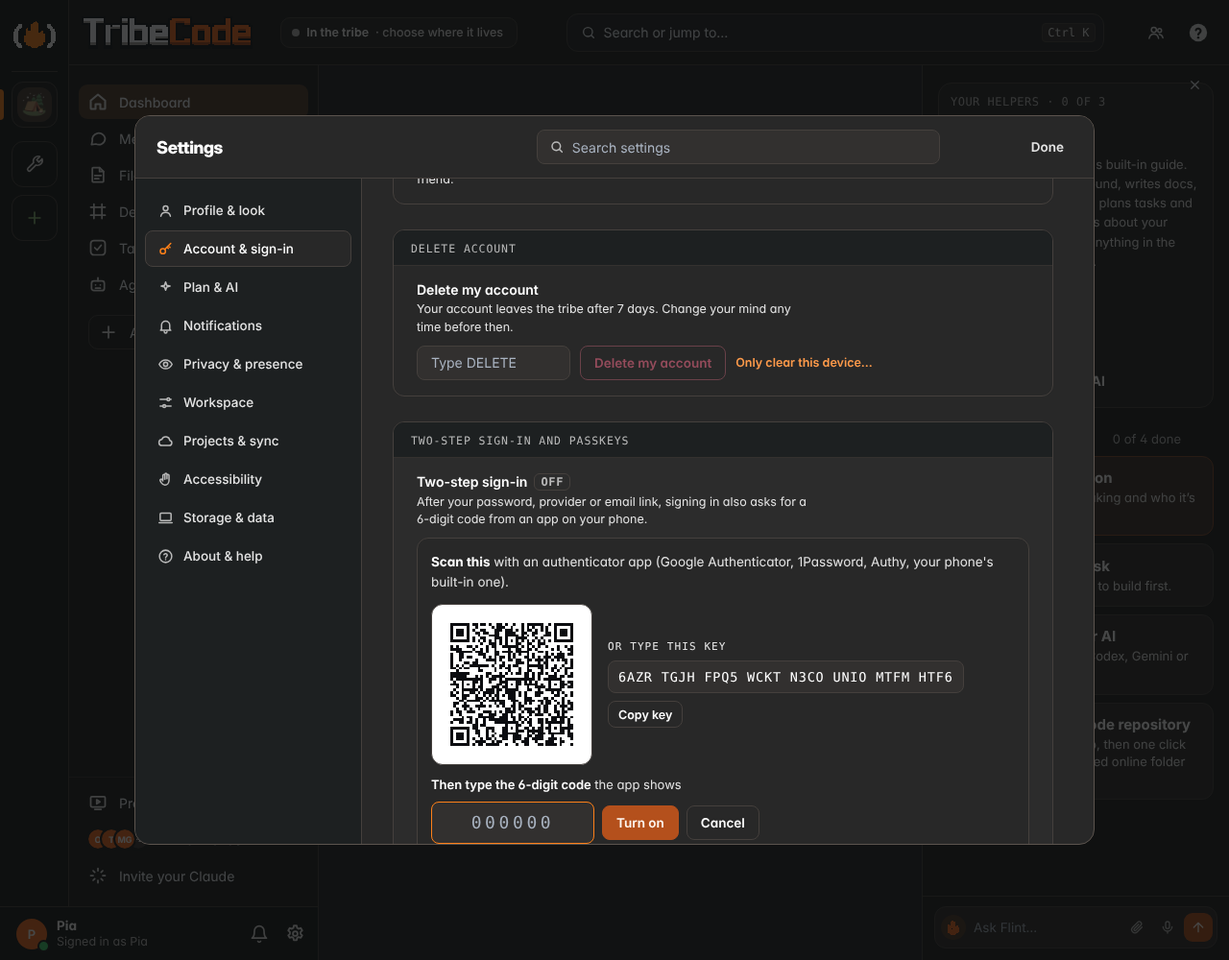
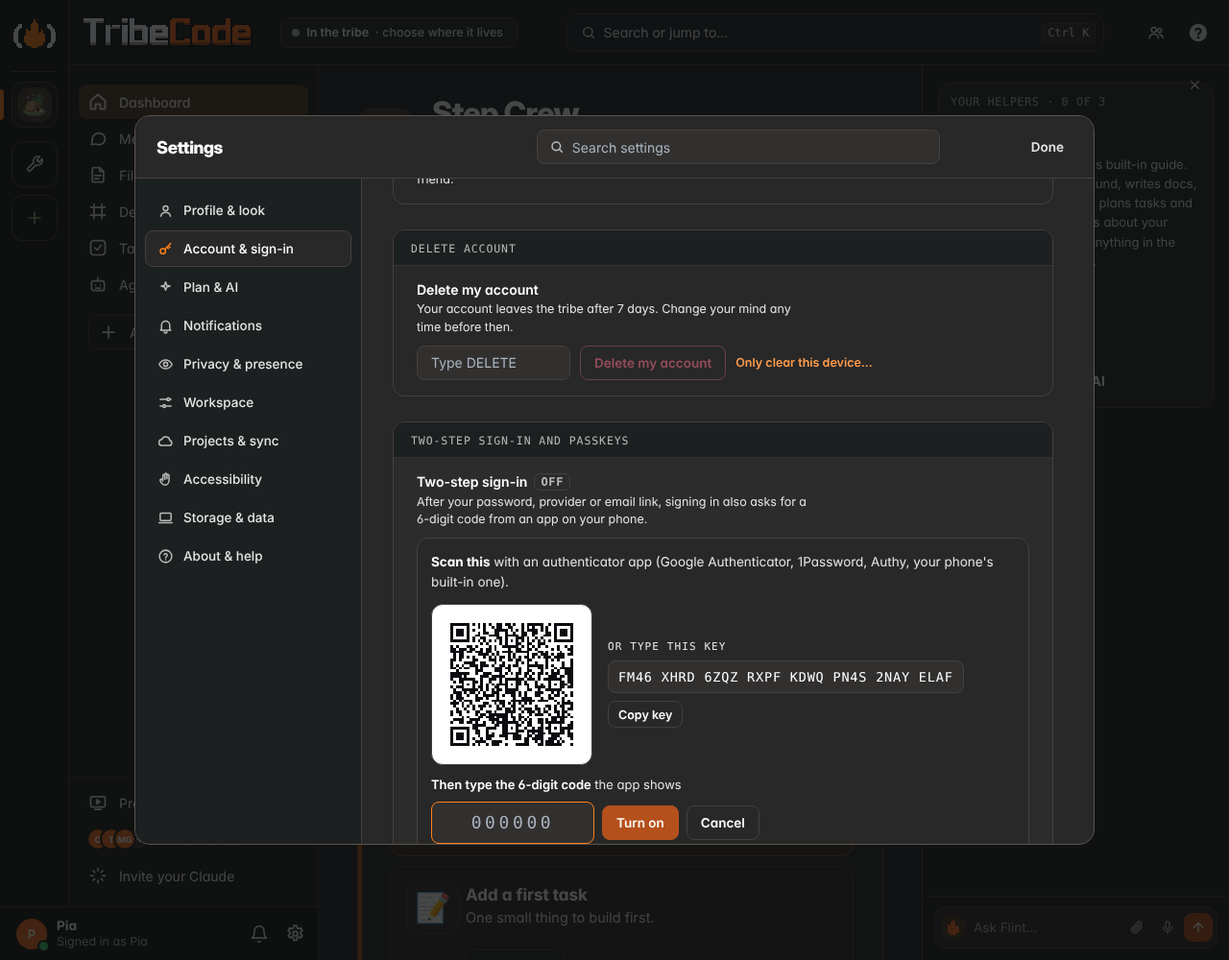
Two-step sign-in off by default: TRIBE_TWO_STEP=1 or the host's setting turns it on
Off: no gate at sign-in (enrolled or not), no rule for admins, the two-step routes answer 404, Settings shows passkeys
only; enrolments are kept. Tests run with the flags on and check the defaults.

Claude-Session: https://claude.ai/code/session_01Twew38tmNVdwNycXqatzin

diff --git a/server/accounts.js b/server/accounts.js
@@ -92,7 +92,7 @@ module.exports = function makeAccounts({ store, getMembers, isLocal, limited, ha
   const taken = () => new Set(load().accounts.map(a => a.usernameKey));
   const pub = a => a && ({ id: a.id, username: a.username, displayName: a.displayName, created: a.created, status: a.status,
     providers: (a.providers || []).map(p => ({ provider: p.provider, linked: p.linked })), members: (a.members || []).slice(), hasPassword: !!a.password,
-    email: a.email ? { address: a.email.address, verified: !!a.email.verified } : null, twoStep: a3.totpOn(a.id), passkeys: a3.passkeyCount(a.id) });
+    email: a.email ? { address: a.email.address, verified: !!a.email.verified } : null, twoStep: twoStepOn() && a3.totpOn(a.id), passkeys: a3.passkeyCount(a.id) });
   const byKey = k => load().accounts.find(a => a.usernameKey === k);
 
   // Existing tribe members -> accounts (once per member; idempotent). Agents are not people and get none.
@@ -225,7 +225,11 @@ module.exports = function makeAccounts({ store, getMembers, isLocal, limited, ha
   // feat/auth3: with two-step on, every sign-in stops at the gate first ({ need: 'two-step', ticket }); server/auth3.js
   // finishes it (signedInNow, strong) once the code, recovery code, trusted device or passkey checks out.
   const adminAccount = a => { const ids = new Set(a.members || []); return getMembers().some(x => ids.has(x.id) && (x.role === 'host' || x.role === 'admin')); };
-  const twoStepAdmins = () => !!readAuth().twoStepAdmins;
+  // Two-step sign-in is OFF until the host turns it on: TRIBE_TWO_STEP=1, or { twoStep: true } in the host's sign-in settings
+  // (PUT admin/settings on the host computer). Off: no gate, no rule for admins, the two-step routes answer 404; an
+  // enrolment made earlier is kept and counts again when it comes back on. Passkeys are a sign-in method either way.
+  const twoStepOn = () => process.env.TRIBE_TWO_STEP === '1' || readAuth().twoStep === true;
+  const twoStepAdmins = () => twoStepOn() && !!readAuth().twoStepAdmins;
   function signedInNow(a, req, proven, { strong = false, memberOnly = false } = {}) {
     const live = new Set(getMembers().filter(x => x.role !== 'agent').map(x => x.id)), mid = (a.members || []).find(x => live.has(x));
     // the host can require two-step for admins: without it the account signs in, but the tribe key waits until it is on
@@ -237,7 +241,7 @@ module.exports = function makeAccounts({ store, getMembers, isLocal, limited, ha
   }
   function signedIn(a, req, proven) { return a3.gate(a) || signedInNow(a, req, proven); }
   const a3 = require('./auth3')({ store, hash, id, limited, log, issueWith, redeemTok, pendSave: () => pend.save(), fromToken, accountById: x => load().accounts.find(a => a.id === x) || null,
-    usableCount: a => usableCount(a), finish: (a, req, o) => signedInNow(a, req, true, o), memberFinish: (mid, req) => (signInMember ? signInMember(mid, req) : null), isAdmin: adminAccount, required: twoStepAdmins });
+    enabled: twoStepOn, usableCount: a => usableCount(a), finish: (a, req, o) => signedInNow(a, req, true, o), memberFinish: (mid, req) => (signInMember ? signInMember(mid, req) : null), isAdmin: adminAccount, required: twoStepAdmins });
   // server/oauth.js: a provider signs a member of this tribe back in. Two-step on their account -> the same gate.
   function memberGate(member, req, info = {}) {
     if (!enabled() || !member) return null;
@@ -313,14 +317,15 @@ module.exports = function makeAccounts({ store, getMembers, isLocal, limited, ha
 
   async function auth2(req, res, { b, c, m, body, send, fail, tooMany }) {
     // public: what this TribeCode offers (the sign-up sheet, signin.html and the pop-up read it)
-    if (b === 'config' && m === 'GET') { send(res, 200, { on: true, openSignup: openSignup(), email: emailOn() }); return true; }
+    if (b === 'config' && m === 'GET') { send(res, 200, { on: true, openSignup: openSignup(), email: emailOn(), ...(twoStepOn() ? { twoStep: true } : {}) }); return true; }
     // ---- the host's settings: on the host computer only ----
     if (b === 'admin') {
       if (!isHostAdmin(req)) { fail(res, 403, 'only the host changes sign-in settings, on the host computer'); return true; }
-      if (c === 'settings' && m === 'GET') { send(res, 200, { openSignup: openSignup(), smtp: viewSmtp(), twoStepAdmins: twoStepAdmins() }); return true; }
+      if (c === 'settings' && m === 'GET') { send(res, 200, { openSignup: openSignup(), smtp: viewSmtp(), twoStep: twoStepOn(), twoStepAdmins: twoStepAdmins() }); return true; }
       if (c === 'settings' && m === 'PUT') {
         const all = readAuth();
         if (body.openSignup !== undefined) all.openSignup = !!body.openSignup;
+        if (body.twoStep !== undefined) { all.twoStep = !!body.twoStep; log(`accounts: two-step sign-in ${all.twoStep ? 'on' : 'off'}`); }
         if (body.twoStepAdmins !== undefined) { all.twoStepAdmins = !!body.twoStepAdmins; log(`accounts: two-step for admins ${all.twoStepAdmins ? 'required' : 'not required'}`); }   // feat/auth3
         if (body.smtp !== undefined) {
           if (body.smtp === null || body.smtp.host === '') delete all.smtp;
@@ -334,7 +339,7 @@ module.exports = function makeAccounts({ store, getMembers, isLocal, limited, ha
           }
         }
         writeAuth(all); log(`accounts: sign-in settings changed (open sign-up ${openSignup() ? 'on' : 'off'}, email ${emailOn() ? 'on' : 'off'})`);
-        send(res, 200, { openSignup: openSignup(), smtp: viewSmtp(), twoStepAdmins: twoStepAdmins() }); return true;
+        send(res, 200, { openSignup: openSignup(), smtp: viewSmtp(), twoStep: twoStepOn(), twoStepAdmins: twoStepAdmins() }); return true;
       }
       if (c === 'smtp-test' && m === 'POST') {
         const cfg = smtpConf(); if (!cfg) { fail(res, 400, 'save the SMTP settings first'); return true; }
@@ -444,7 +449,7 @@ module.exports = function makeAccounts({ store, getMembers, isLocal, limited, ha
         const own = load().accounts.find(a => (a.members || []).includes(mem.id));
         const clash = byKey(keyOf(username));
         if (clash && clash !== own) { fail(res, 409, 'that username is taken'); return true; }
-        if (own && (own.password || a3.totpOn(own.id))) { fail(res, 409, 'you already have an account: log in with it'); return true; }   // feat/auth3: a tribe key alone never steps around two-step
+        if (own && (own.password || (twoStepOn() && a3.totpOn(own.id)))) { fail(res, 409, 'you already have an account: log in with it'); return true; }   // feat/auth3: a tribe key alone never steps around two-step
         if (body.password == null) { fail(res, 400, 'pick a password of at least 8 characters'); return true; }   // fix/review-4
         const a = own || { id: 'acct-' + id(10), created: now(), providers: [], sessions: [], members: [mem.id] };
         Object.assign(a, { username, usernameKey: keyOf(username), displayName: normalizeUsername(body.displayName) || a.displayName || username, status: 'active', ...mail, ...(body.password != null ? { password: scryptHash(body.password) } : {}) });

diff --git a/app/ui/auth3.js b/app/ui/auth3.js
@@ -206,18 +206,22 @@
   const when = t => { try { return new Date(t).toLocaleDateString(undefined, { year: 'numeric', month: 'short', day: 'numeric' }); } catch { return ''; } };
   async function settings(el) {
     const a = acct(), base = baseUrl();
-    if (!a) { el.innerHTML = '<p class="set-note a3-setnote" id="a3-noacct">Two-step sign-in and passkeys protect a TribeCode account. Log in to one, or create one, and they appear here.</p>'; return; }
+    // two-step is off for the whole TribeCode until the host turns it on (config.twoStep): then only passkeys show here
+    let cfg = {}; try { cfg = await call(base, '/accounts/config'); } catch {}
+    const two = cfg.twoStep === true, h3 = el.closest('.set-sec') && el.closest('.set-sec').querySelector('.set-sec-h');
+    if (h3) h3.textContent = two ? 'Two-step sign-in and passkeys' : 'Passkeys';
+    if (!a) { el.innerHTML = `<p class="set-note a3-setnote" id="a3-noacct">${two ? 'Two-step sign-in and passkeys protect' : 'Passkeys sign you in to'} a TribeCode account. Log in to one, or create one, and they appear here.</p>`; return; }
     let st, keys;
-    try { [st, keys] = await Promise.all([call(base, '/accounts/two-step', { token: a.acct }), call(base, '/accounts/passkeys', { token: a.acct })]); }
+    try { [st, keys] = await Promise.all([two ? call(base, '/accounts/two-step', { token: a.acct }) : Promise.resolve(null), call(base, '/accounts/passkeys', { token: a.acct })]); }
     catch (e) { el.innerHTML = e.status === 404 ? '' : `<p class="set-note a3-setnote">${esc(say(e.message))}</p>`; return; }
     if (!el.isConnected) return;
     const av = available(), list = keys.passkeys || [];
-    el.innerHTML = `<div class="set-row set-row-wide" id="set-twostep" data-keys="2fa two-factor totp authenticator code otp mfa two-step">
+    el.innerHTML = `${!st ? '' : `<div class="set-row set-row-wide" id="set-twostep" data-keys="2fa two-factor totp authenticator code otp mfa two-step">
         <div class="set-l"><b>Two-step sign-in <span class="oa-st ${st.on ? 'on' : ''}" id="a3-state">${st.on ? 'On' : 'Off'}</span></b><small>${st.on ? `On since ${esc(when(st.since))}. Signing in asks for a code from your authenticator app. ${st.recoveryLeft} recovery code${st.recoveryLeft === 1 ? '' : 's'} left${st.trusted ? `, ${st.trusted} trusted device${st.trusted === 1 ? '' : 's'}` : ''}.` : 'After your password, provider or email link, signing in also asks for a 6-digit code from an app on your phone.'}${st.required ? ' <b class="a3-req">The host requires it for admins.</b>' : ''}</small></div>
         <div class="set-c a3-acts" id="a3-acts">${st.on ? `<button class="btn" data-a3="new-recs">New recovery codes</button>${st.trusted ? '<button class="btn" data-a3="untrust">Forget trusted devices</button>' : ''}<button class="btn" data-a3="off" id="a3-off">Turn off</button>` : '<button class="btn primary" data-a3="on" id="a3-on">Turn on two-step sign-in</button>'}</div>
-        <div class="a3-panel" id="a3-panel" hidden></div></div>
+        <div class="a3-panel" id="a3-panel" hidden></div></div>`}
       <div class="set-row set-row-wide" id="set-passkeys" data-keys="passkey webauthn fido security key biometric face id touch id fingerprint">
-        <div class="set-l"><b>Passkeys</b><small>Sign in with your fingerprint, face or screen lock instead of a password. A passkey sign-in counts as two-step.</small></div>
+        <div class="set-l"><b>Passkeys</b><small>Sign in with your fingerprint, face or screen lock instead of a password.${st ? ' A passkey sign-in counts as two-step.' : ''}</small></div>
         <div class="set-c a3-pkc">${list.length ? `<ul class="a3-pklist" id="a3-pklist">${list.map(k => `<li data-pk="${esc(k.id)}"><span class="a3-pkname">${KEY_SVG}<span><b>${esc(k.name)}</b><small>Added ${esc(when(k.created))}${k.lastUsed ? ' · last used ' + esc(when(k.lastUsed)) : ''} · ${esc(k.where)}${k.synced ? ' · synced' : ''}</small></span></span><span class="a3-pkbtns"><button class="btn sm" data-pk-rename="${esc(k.id)}">Rename</button><button class="btn sm" data-pk-del="${esc(k.id)}">Remove</button></span></li>`).join('')}</ul>` : ''}
           ${av.ok ? `<button class="btn" id="a3-add-pk" ${list.length >= keys.max ? 'disabled' : ''}>${KEY_SVG}<span>Add a passkey</span></button>` : `<p class="a3-note" id="a3-pk-off">${esc(av.why)}</p>`}<p class="a3-err" id="a3-pk-msg" role="alert"></p></div></div>`;
     const panel = el.querySelector('#a3-panel'), redraw = () => settings(el);
@@ -269,6 +273,7 @@
     if (!(me && me.role === 'host' && local && C().hasToken())) { el.closest('.set-sec') && (el.closest('.set-sec').hidden = true); return; }
     const base = baseUrl(), tok = (S().get().server || {}).token || '';
     let d; try { d = await call(base, '/accounts/admin/settings', { token: tok }); } catch { el.closest('.set-sec') && (el.closest('.set-sec').hidden = true); return; }
+    if (!d.twoStep) { el.innerHTML = ''; if (el.closest('.set-sec')) el.closest('.set-sec').hidden = true; return; }   // two-step is off: no rule to show
     if (!el.isConnected) return;
     el.innerHTML = `<div class="set-row" id="set-twostep-admins" data-keys="2fa two-factor admins require mfa"><div class="set-l"><b>Require two-step for admins</b><small>${d.twoStepAdmins ? 'On: an admin who signs in to their account gets into the tribe only with two-step sign-in (or a passkey). Until they turn it on, they are asked to.' : 'Admins can sign in with a password, a provider or an email link alone. Turn this on to ask every admin for two-step sign-in.'} Sign-ins on this computer are not held back.</small></div>
       <div class="set-c"><button class="toggle set-toggle" role="switch" id="a3-admins" aria-label="Require two-step for admins" aria-checked="${!!d.twoStepAdmins}"><span class="switch"></span></button></div></div>`;
@@ -278,7 +283,7 @@
   function boot() {
     const T = window.TribeSettings; if (!T || !T.addSection) return;
     try {
-      T.addSection('account', { id: 'twostep', title: 'Two-step sign-in and passkeys', render: el => settings(el) });
+      T.addSection('account', { id: 'twostep', title: 'Passkeys', render: el => settings(el) });   // the title grows to "Two-step sign-in and passkeys" when the host has two-step on
       T.addSection('admin', { id: 'twostep-admins', title: 'Sign-in rules', render: el => adminSettings(el) });
     } catch {}
   }

diff --git a/server/auth3.js b/server/auth3.js
@@ -17,6 +17,10 @@
 //   presence, the signature (ES256 or RS256) and the signature counter (it must go up when the authenticator counts).
 //   A passkey sign-in counts as two-step.
 //
+// The switch: two-step is OFF until the host turns it on (TRIBE_TWO_STEP=1 or the host's sign-in settings, see
+// server/accounts.js twoStepOn). Off: gate() never challenges, every two-step route answers 404, enrolments are kept.
+// Passkeys work either way, as a sign-in method.
+//
 // At rest: .tribe/auth3.json (0600, written atomically). TOTP secrets are sealed (server/sealbox.js: AES-256-GCM, the
 // key in .tribe/secret.key, 0600); recovery codes and trust tokens are kept only as sha256; passkeys are public keys.
 //
@@ -98,7 +102,7 @@ function parseAuthData(ad, wantCred) {
   return out;
 }
 
-module.exports = function makeAuth3({ store, hash, id, limited, log = () => {}, issueWith, redeemTok, pendSave, fromToken, accountById, usableCount, finish, memberFinish, isAdmin, required, forgetOnDelete = () => [] }) {
+module.exports = function makeAuth3({ store, hash, id, limited, log = () => {}, enabled = () => true, issueWith, redeemTok, pendSave, fromToken, accountById, usableCount, finish, memberFinish, isAdmin, required, forgetOnDelete = () => [] }) {
   const box = sealbox(store);
   let db = null;
   const load = () => { if (!db) { db = store.readJSON(FILE, null) || { v: 1, accounts: {} }; if (!db.accounts || typeof db.accounts !== 'object') db.accounts = {}; } return db; };
@@ -165,7 +169,7 @@ module.exports = function makeAuth3({ store, hash, id, limited, log = () => {}, 
 
   // The gate (server/accounts.js calls it before every proven sign-in): null = go on, else the challenge to answer.
   function gate(a, extra = {}) {
-    if (!a || !totpOn(a.id)) return null;
+    if (!enabled() || !a || !totpOn(a.id)) return null;   // off for the whole TribeCode: nobody is gated, enrolments wait
     const t = crypto.randomBytes(30).toString('base64url');
     issueWith(t, 'twostep', TICKET_MS, { account: a.id, tries: 0, ...extra });
     const r = peek(a.id);
@@ -247,6 +251,7 @@ module.exports = function makeAuth3({ store, hash, id, limited, log = () => {}, 
     const no = (status, error, code, more = {}) => { send(res, status, { error, ...(code ? { code } : {}), ...more }); return true; };
     const many = () => { res.setHeader('Retry-After', '60'); return no(429, 'too many tries in a row: wait a minute, then try again'); };
     if (limited(req, 90, 60_000, 'a3')) return many();
+    if (!enabled() && (b === 'two-step' || body.ticket != null)) return no(404, 'two-step sign-in is not available on this TribeCode', 'off');
     const isPublic = (b === 'two-step' && !c && m === 'POST') || b === 'passkey';
     if (isPublic && limited(req, 20, 60_000, 'a3try')) return many();
     const who = isPublic ? null : fromToken(req);

diff --git a/app/test/e2e_auth3.py b/app/test/e2e_auth3.py
@@ -1,6 +1,6 @@
 """End-to-end: feat/auth3, two-step sign-in (TOTP) and passkeys (docs/ACCOUNTS.md, docs/SIGNUP-FLOWS.md).
 
-The server runs with TRIBE_ACCOUNTS=1 and a 2-second TOTP step (TRIBE_TEST_TOTP_STEP_MS), so a fresh code is never far
+The server runs with TRIBE_ACCOUNTS=1, TRIBE_TWO_STEP=1 (two-step is off by default) and a 2-second TOTP step (TRIBE_TEST_TOTP_STEP_MS), so a fresh code is never far
 away. The fake provider and SMTP server come from e2e_auth2. Passkeys use Chrome's virtual authenticator over CDP
 (WebAuthn.enable / addVirtualAuthenticator).
 
@@ -15,6 +15,8 @@ Checks
   Passkeys  register in Settings, sign in from signin.html and from the Log in sheet, as the second step; a wrong
          challenge, a challenge issued for another origin, a replayed answer and a counter that went backwards are
          refused; rename, remove, the last sign-in method is protected; the plain line where passkeys can't work.
+  Off    the default, with no TRIBE_TWO_STEP: nobody is gated (enrolled or not), the two-step routes answer 404, Settings
+         shows passkeys only, the enrolment is kept; the host's setting turns it back on.
   UI     Settings › Account & sign-in: turn on (QR, key, code), recovery codes (copy, download), the code sheet with
          "Trust this device", turn off with a code. Screenshots: docs/screenshots/two-step.png, passkey.png.
 Usage: python app/test/e2e_auth3.py   (TRIBE_PORT_OFFSET to run beside other suites)
@@ -107,16 +109,18 @@ def main():
     socketserver.ThreadingTCPServer.allow_reuse_address = True
     smtp = socketserver.ThreadingTCPServer(("127.0.0.1", SMTP_PORT), a2.Smtp); threading.Thread(target=smtp.serve_forever, daemon=True).start()
     env = {**os.environ, "HOME": home, "USERPROFILE": home, "TRIBE_TEST": "1", "TRIBE_NO_DOWNLOAD": "1", "TRIBE_NO_GH": "1", "TRIBE_ACCOUNTS": "1",
-           "TRIBE_TEST_TOTP_STEP_MS": str(STEP * 1000), "TRIBE_OAUTH_DISCORD_BASE": a2.MOCK, "TRIBE_OAUTH_GITHUB_BASE": a2.MOCK, "NO_PROXY": "localhost,127.0.0.1", "no_proxy": "localhost,127.0.0.1"}
+           "TRIBE_TWO_STEP": "1", "TRIBE_TEST_TOTP_STEP_MS": str(STEP * 1000), "TRIBE_OAUTH_DISCORD_BASE": a2.MOCK, "TRIBE_OAUTH_GITHUB_BASE": a2.MOCK, "NO_PROXY": "localhost,127.0.0.1", "no_proxy": "localhost,127.0.0.1"}
     for k in ("TRIBE_PUBLIC_URL", "TRIBE_OPEN_SIGNUP"): env.pop(k, None)
     log = open(os.path.join(tmp, "server.log"), "w+")
-    srv = subprocess.Popen(["node", str(ROOT / "server" / "index.js"), "--port", str(PORT), "--dir", tribe, "--ollama", "http://localhost:9", "--name", "Step Crew"], stdout=log, stderr=subprocess.STDOUT, env=env)
-    try:
+    def wait_up():
         for _ in range(150):
             try:
-                if api("/health")[0] == 200: break
+                if api("/health")[0] == 200: return
             except Exception: pass
             time.sleep(0.1)
+    srv = subprocess.Popen(["node", str(ROOT / "server" / "index.js"), "--port", str(PORT), "--dir", tribe, "--ollama", "http://localhost:9", "--name", "Step Crew"], stdout=log, stderr=subprocess.STDOUT, env=env)
+    try:
+        wait_up()
         host = ok(api("/bootstrap", "POST", {"name": "Orion"}), "bootstrap")["token"]
         for p in ("discord", "github"): ok(api(f"/oauth/config/{p}", "PUT", {"clientId": a2.CLIENT_ID, "clientSecret": a2.SECRET, "enabled": True}, token=host), p)
         ok(api("/accounts/admin/settings", "PUT", {"smtp": {"host": "127.0.0.1", "port": SMTP_PORT, "secure": "none", "user": "tribe", "pass": "smtp-pass", "from": "tribe@example.test"}}, token=host), "smtp")
@@ -125,7 +129,7 @@ def main():
         # ---------------- TOTP: enrol ----------------
         tess = ok(api("/accounts/signup", "POST", {"username": "Tess", "password": PW, "email": "tess@example.test", "invite": invite()}, headers=remote()), "Tess")
         tt = tess["token"]
-        assert ok(api("/accounts/two-step", token=tt))["on"] is False
+        assert ok(api("/accounts/two-step", token=tt))["on"] is False and ok(api("/accounts/config"))["twoStep"] is True
         assert api("/accounts/two-step")[0] == 401 and api("/accounts/two-step/setup", "POST", {})[0] == 401, "settings need the account"
         s = ok(api("/accounts/two-step/setup", "POST", {}, token=tt), "setup")
         assert re.fullmatch(r"[A-Z2-7]{32}", s["secret"]) and s["uri"].startswith("otpauth://totp/TribeCode%3ATess?secret=" + s["secret"]) and "issuer=TribeCode" in s["uri"], s
@@ -345,7 +349,9 @@ def main():
             fp.click("#a3-swap"); assert "recovery" in fp.inner_text("#a3-title").lower(); fp.click("#a3-swap")
             fp.check("#a3-remember"); fp.fill("#a3-code", code(usec)); fp.click("#a3-go")
             fp.wait_for_function("() => { try { const a = JSON.parse(localStorage.getItem('tribecode.accounts.v1')); return a && a.mode === 'signedin' && a.accounts[0].username === 'Pia' && Object.values(JSON.parse(localStorage.getItem('tribecode.trust.v1') || '{}'))[0].startsWith('tct_'); } catch { return false; } }", timeout=20000)
-            tr = list(fp.evaluate("() => JSON.parse(localStorage.getItem('tribecode.trust.v1'))").values())[0]
+            for _ in range(5):   # the page reloads once it is signed in: read after it settles
+                try: fp.wait_for_load_state("load"); tr = list(fp.evaluate("() => JSON.parse(localStorage.getItem('tribecode.trust.v1'))").values())[0]; break
+                except Exception: fp.wait_for_timeout(700)
             st, d = login("Pia"); assert step2(d["ticket"], trust=tr)[0] == 200, "the device the sheet trusted is trusted"
             print("  the code sheet: a wrong code says so, a recovery-code view, Trust this device keeps a token")
 
@@ -368,6 +374,54 @@ def main():
             w = pg.evaluate(PK_JS, {}); assert w["status"] == 401 and w["data"]["code"] == "unknown", "a removed passkey signs nobody in"
             print("  remove: never the last way in (passkeys and methods routes), not someone else's; a removed passkey is dead; plain line at 127.0.0.1")
             b.close()
+
+        # =============================== the default: two-step is off ===============================
+        # The same tribe, started without TRIBE_TWO_STEP. Ada, Nelly and Maya are still enrolled from above.
+        srv.terminate(); srv.wait(timeout=10)
+        env2 = {k: v for k, v in env.items() if k != "TRIBE_TWO_STEP"}
+        srv = subprocess.Popen(["node", str(ROOT / "server" / "index.js"), "--port", str(PORT), "--dir", tribe, "--ollama", "http://localhost:9", "--name", "Step Crew"], stdout=log, stderr=subprocess.STDOUT, env=env2); wait_up()
+        assert "twoStep" not in ok(api("/accounts/config")), "the public config says nothing about two-step"
+        st, d = login("Ada"); assert st == 200 and d["token"].startswith("tca_") and d["memberToken"] and "need" not in d and "twoStep" not in d and d["account"]["twoStep"] is False, d
+        adt = d["token"]
+        st, d = a2.oauth_finish("discord", "nelly", headers=remote()); assert st == 200 and d["mode"] == "account" and d["token"] and "need" not in d, d
+        st, d = a2.oauth_finish("github", "maya", headers=remote()); assert st == 200 and d["mode"] == "signin" and d["token"] and "need" not in d, d
+        for path, m, body, tok in (("/accounts/two-step", "GET", None, adt), ("/accounts/two-step/setup", "POST", {}, adt), ("/accounts/two-step/confirm", "POST", {"code": "123456"}, adt), ("/accounts/two-step/disable", "POST", {"code": "123456"}, adt),
+                                   ("/accounts/two-step/recovery", "POST", {"code": "123456"}, adt), ("/accounts/two-step/trusted", "DELETE", None, adt), ("/accounts/two-step", "POST", {"ticket": "t" * 40, "code": "123456"}, None)):
+            st, e = api(path, m, body, token=tok, headers=remote()); assert st == 404 and e.get("code") == "off", (path, st, e)
+        assert api("/accounts/passkey/start", "POST", {"ticket": "t" * 40}, headers={"Origin": BASE})[0] == 404
+        s_ = ok(api("/accounts/admin/settings", token=host)); assert s_["twoStep"] is False and s_["twoStepAdmins"] is False, s_
+        ok(api("/accounts/admin/settings", "PUT", {"twoStepAdmins": True}, token=host)); st, d = login("Ada"); assert d.get("memberToken") and "twoStep" not in d, "no rule for admins while two-step is off"
+        assert ok(api("/accounts/passkeys/options", "POST", {}, token=adt, headers={"Origin": BASE}))["publicKey"]["rp"]["id"] == "localhost", "passkeys stay"
+        kept = json.load(open(os.path.join(tribe, ".tribe", "auth3.json")))["accounts"]; assert kept[ada["account"]["id"]].get("totp") and len(kept[ada["account"]["id"]]["recovery"]) == 10, "the enrolment is kept for later"
+        with sync_playwright() as p:
+            b = p.chromium.launch(executable_path="/usr/bin/google-chrome", args=["--no-proxy-server"])
+            bx = b.new_context(viewport={"width": 1280, "height": 1000}); bx.add_init_script(init_script("Bob", bob, bob["memberToken"]))
+            bp = bx.new_page(); bp.on("pageerror", lambda e: errors.append(f"bob: {e}"))
+            bp.goto(BASE + "/?skipIntro=1"); bp.wait_for_function("() => window.TribeClient && window.TribeClient.connected() && window.TribeAuth3", timeout=20000)
+            bp.evaluate("() => window.TribeSettings.open('account')"); bp.wait_for_selector("#set-passkeys #a3-add-pk", timeout=15000)
+            assert bp.locator("#set-twostep").count() == 0 and bp.locator("#a3-on").count() == 0
+            txt = bp.inner_text("#set-pane-account").lower(); assert "two-step" not in txt and "passkeys" in txt, "Settings › Account says nothing about two-step"
+            hx = b.new_context(viewport={"width": 1280, "height": 1000}); hx.add_init_script(init_script("Orion", None, host))
+            hp = hx.new_page(); hp.on("pageerror", lambda e: errors.append(f"host: {e}"))
+            hp.goto(BASE + "/?skipIntro=1"); hp.wait_for_function("() => window.TribeClient && window.TribeClient.connected() && window.TribeAuth3", timeout=20000)
+            hp.evaluate("() => window.TribeSettings.open('admin')"); hp.wait_for_selector("#set-signin-host #au-open", state="attached", timeout=15000); hp.wait_for_timeout(1200)
+            assert hp.locator("#set-twostep-admins").count() == 0 and "two-step" not in hp.inner_text("#set-pane-admin").lower(), "no rule for admins in Tribe & admin"
+            # the Log in sheet: an enrolled account signs in with its password alone
+            fx = b.new_context(viewport={"width": 1100, "height": 860}, extra_http_headers={"X-Forwarded-For": "198.51.100.91"})
+            fx.add_init_script("try { localStorage.setItem('tribecode.intro.v1','seen'); if (!localStorage.getItem('tribecode.settings.v1')) { localStorage.setItem('tribecode.settings.v1', JSON.stringify({name:'Ada', onboarded:true, tour:{done:true}})); localStorage.setItem('tribecode.accounts.v1', JSON.stringify({ mode: 'signedout', accounts: [] })); } } catch (e) {}")
+            fp = fx.new_page(); fp.on("pageerror", lambda e: errors.append(f"ada: {e}"))
+            fp.goto(BASE + "/?skipIntro=1"); fp.wait_for_function("() => window.TribeAccounts && window.TribeAuth3", timeout=20000)
+            fp.evaluate("() => window.TribeAccounts.login()"); fp.wait_for_selector("#ac-user", state="visible", timeout=15000)
+            fp.fill("#ac-user", "Ada"); fp.fill("#ac-pass", PW); fp.click("#ac-acct-go")
+            fp.wait_for_function("() => { try { const a = JSON.parse(localStorage.getItem('tribecode.accounts.v1')); return a && a.mode === 'signedin' && a.accounts[0].username === 'Ada'; } catch { return false; } }", timeout=20000)
+            assert fp.locator("#a3-step").count() == 0, "no code sheet"
+            b.close()
+        # the host's setting turns it back on without the environment; Ada's enrolment counts again
+        assert api("/accounts/admin/settings", "PUT", {"twoStep": True}, token=host, headers=remote())[0] == 403
+        assert ok(api("/accounts/admin/settings", "PUT", {"twoStep": True, "twoStepAdmins": False}, token=host))["twoStep"] is True
+        st, d = login("Ada"); assert d.get("need") == "two-step" and "token" not in d, d
+        assert step2(d["ticket"], code=code(asec))[0] == 200
+        print("  default (no TRIBE_TWO_STEP): nobody is gated, the two-step routes are 404, no rows in Settings, passkeys stay, enrolments are kept; the host's setting turns it back on")
         assert not errors, errors
         print("ok e2e_auth3")
     finally:

diff --git a/app/test/security7_test.py b/app/test/security7_test.py
@@ -1,7 +1,8 @@
 """Security checks for feat/auth3-pay: two-step sign-in, passkeys and payments (docs/ACCOUNTS.md, docs/PREMIUM.md).
 
 No browser: a software authenticator in this file (ES256 and RS256 keys, CBOR by hand) speaks WebAuthn to the server, so
-every check of a registration and an assertion can be bent one at a time. Stripe is configured through the environment
+every check of a registration and an assertion can be bent one at a time. Both features are off by default, so the
+server runs with TRIBE_TWO_STEP=1 and TRIBE_PAYMENTS=1 (e2e_auth3 and e2e_payments check the defaults). Stripe is configured through the environment
 here (e2e_payments covers the host's settings) and points at a local fake.
 
 T  two-step: one answer for a wrong password whether or not two-step is on (no enumeration); a ticket is bound to its
@@ -154,7 +155,7 @@ def main():
     tribe, home = os.path.join(tmp, "tribe"), os.path.join(tmp, "home")
     os.makedirs(tribe); os.makedirs(home)
     fake = http.server.ThreadingHTTPServer(("127.0.0.1", STRIPE_PORT), FakeStripe); threading.Thread(target=fake.serve_forever, daemon=True).start()
-    env = {**os.environ, "HOME": home, "USERPROFILE": home, "TRIBE_TEST": "1", "TRIBE_NO_DOWNLOAD": "1", "TRIBE_NO_GH": "1", "TRIBE_ACCOUNTS": "1", "TRIBE_TEST_TOTP_STEP_MS": str(STEP * 1000),
+    env = {**os.environ, "HOME": home, "USERPROFILE": home, "TRIBE_TEST": "1", "TRIBE_NO_DOWNLOAD": "1", "TRIBE_NO_GH": "1", "TRIBE_ACCOUNTS": "1", "TRIBE_TWO_STEP": "1", "TRIBE_PAYMENTS": "1", "TRIBE_TEST_TOTP_STEP_MS": str(STEP * 1000),
            "STRIPE_SECRET_KEY": SK, "STRIPE_WEBHOOK_SECRET": WH, "STRIPE_PRICE_CREDITS_10": "price_s7c10", "STRIPE_PRICE_HOSTED": "price_s7hosted", "TRIBE_STRIPE_BASE": FAKE,
            "NO_PROXY": "localhost,127.0.0.1", "no_proxy": "localhost,127.0.0.1"}
     for k in ("TRIBE_PUBLIC_URL", "TRIBE_OPEN_SIGNUP"): env.pop(k, None)
@@ -285,6 +286,7 @@ def main():
         # the override is a test hook only
         out = subprocess.run(["node", "-e", "const os=require('os'),fs=require('fs'),p=require('path');const d=fs.mkdtempSync(p.join(os.tmpdir(),'s7-'));const {Store}=require(%s);const st=new Store(d);delete process.env.TRIBE_TEST;const x=require(%s)({store:st});console.log(x.isTest(), x.on())" % (json.dumps(str(ROOT / 'server' / 'store.js')), json.dumps(str(ROOT / 'server' / 'stripe.js')))],
                              capture_output=True, text=True, env={**env, "TRIBE_TEST": ""}); assert out.stdout.strip() == "false true", (out.stdout, out.stderr)
+        out2 = subprocess.run(out.args, capture_output=True, text=True, env={k: v for k, v in env.items() if k != "TRIBE_PAYMENTS"}); assert out2.stdout.strip().endswith("false"), "keys alone turn nothing on: payments need TRIBE_PAYMENTS=1 or the host's setting"
         logtxt = open(logf).read(); assert SK not in logtxt and WH not in logtxt
         print("  P: checkout/portal need a member and are rate-limited; return address is ours; the webhook: POST, v1, size, one event at once applied once; settings host-local; no fake Stripe without TRIBE_TEST")
         print("ok security7_test")
